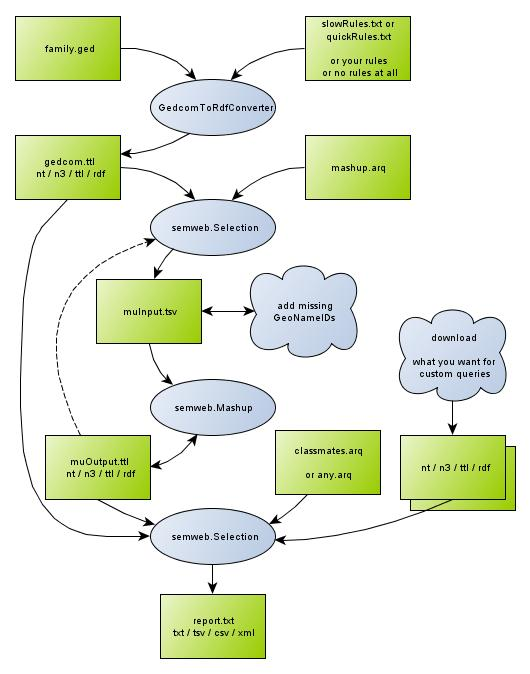
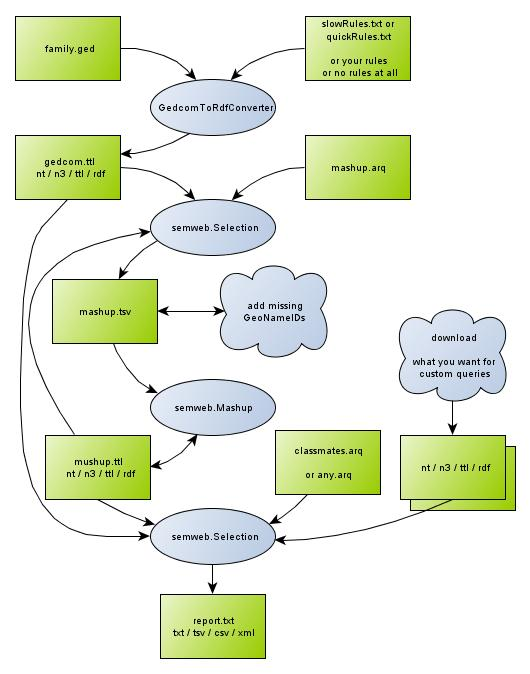
avoid input/output in file names that can play both roles

diff --git a/AncestrisExtensions/report.rdf/javahelp/genjreports/rdf/docs/rdf-mashup.html b/AncestrisExtensions/report.rdf/javahelp/genjreports/rdf/docs/rdf-mashup.html
@@ -117,8 +117,8 @@
         </p>
 <pre>
 java %JAVA_OPTS% genjreports.rdf.<u>Gedsem.Convert</u> -rules slowRules.txt -gedcom family.ged -format ttl > gedcom.ttl
-java %JAVA_OPTS% genjreports.rdf.<u>semweb.Select</u> muInput.tsv gedcom.ttl muOutput.ttl <u>mashup.arq</u>
-java %JAVA_OPTS% genjreports.rdf.<u>semweb.Mashup</u> muInput.tsv http://my.dom.com/gc/places/ muOutput.ttl "de|fr"
+java %JAVA_OPTS% genjreports.rdf.<u>semweb.Select</u> mashup.tsv gedcom.ttl mashup.ttl <u>mashup.arq</u>
+java %JAVA_OPTS% genjreports.rdf.<u>semweb.Mashup</u> mashup.tsv http://my.dom.com/gc/places/ mushup.ttl "de|fr"
 java %JAVA_OPTS% genjreports.rdf.<u>semweb.Select</u> report.txt gedcom.ttl muOutput.ttl *.rdf <u>classmates.arq</u>
 </pre>
         <ul>
@@ -143,7 +143,7 @@ java %JAVA_OPTS% genjreports.rdf.<u>semweb.Select</u> report.txt gedcom.ttl muOu
           </li>
           <li>
             The Mashup commands takes some 6 minutes and creates about 250KB
-            with the <a href="./mashup/kennedyMashupInput.tsv">Kennedy</a> example,
+            with the <a href="./mashup/kennedyMashup.tsv">Kennedy</a> example,
           </li>
         </ul>
         <p class="justify">
@@ -182,7 +182,7 @@ java %JAVA_OPTS% genjreports.rdf.<u>semweb.Select</u> report.txt gedcom.ttl muOu
             <a href="./mashup/log4j.properties">log4j.properties</a>
             and the variable JAVA_OPTS. 
             The mashup will work without this file,
-            but logging will be limioted to a warning and not produce progress information.
+            but logging will be limited to some warnings and not produce progress information.
         </p>
 
 
